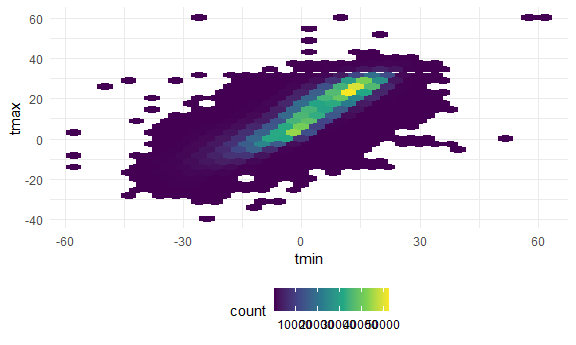
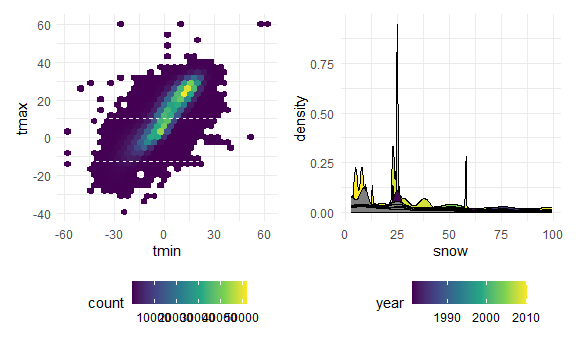
final commit

diff --git a/p8105_hw3_cz2689.md b/p8105_hw3_cz2689.md
@@ -7,6 +7,7 @@ Chaoqun Zhou
 library(tidyverse)
 library(readxl)
 library(p8105.datasets)
+library(patchwork)
 
 knitr::opts_chunk$set(
     echo = TRUE,
@@ -152,8 +153,14 @@ Also, average_tmax in July is much higher than in January. Every station
 has a similar trend of temperature change.
 
 ``` r
-p3 %>% 
-  ggplot(aes(x = tmin, y = tmax)) + geom_hex()
+graph1 = p3 %>% 
+  ggplot(aes(x = tmin, y = tmax, color = month)) + geom_hex()
+
+graph2 = p3 %>% 
+  filter(snow > 0 & snow < 100) %>% 
+  ggplot(aes(x = snow, fill = year, group = id)) + geom_density()
+
+graph1 + graph2
 ```
 
 <img src="p8105_hw3_cz2689_files/figure-gfm/unnamed-chunk-8-1.png" width="90%" />
